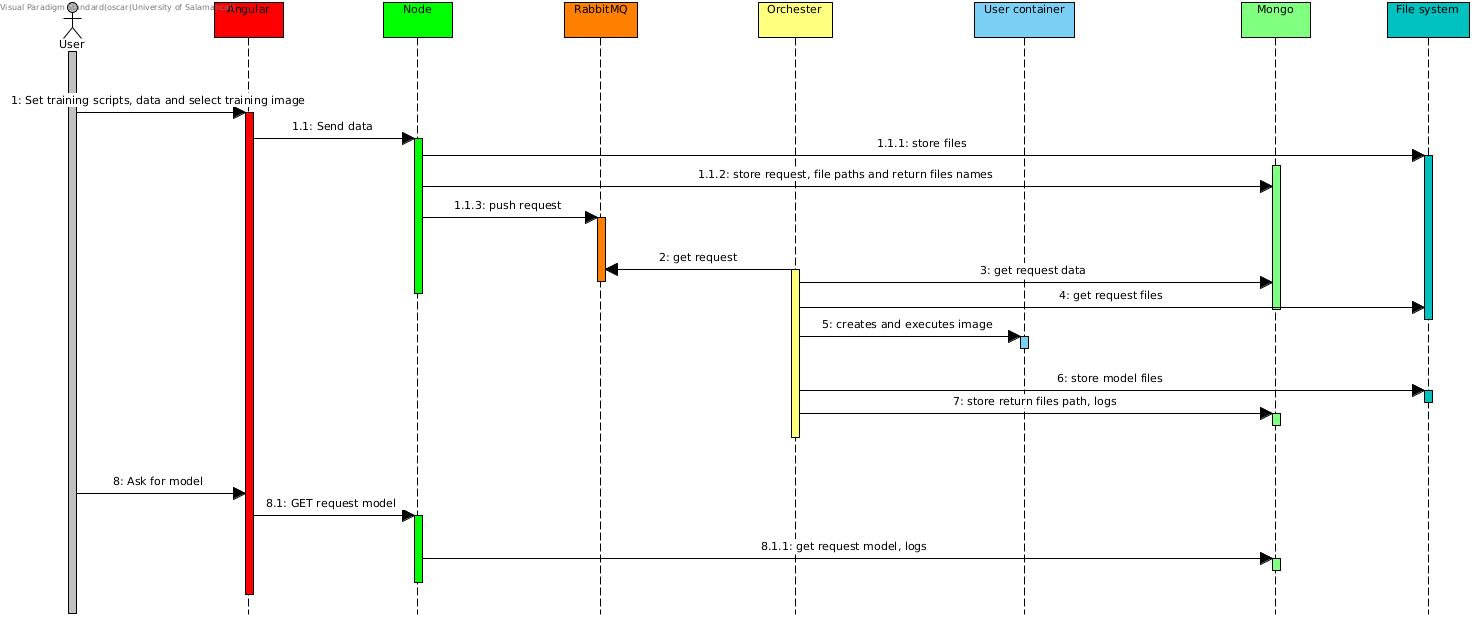
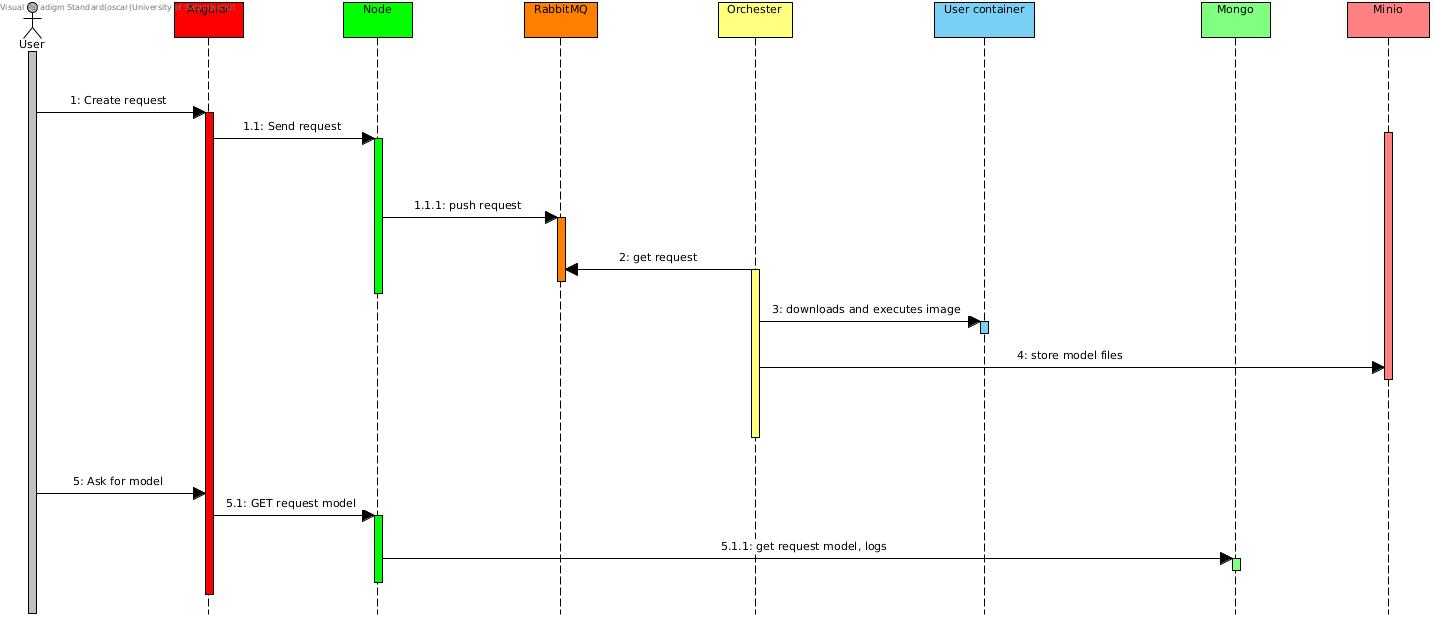
Updated diagrams, orchestrator

diff --git a/src/orchestrator/orchestrator.py b/src/orchestrator/orchestrator.py
@@ -1,4 +1,5 @@
 #!/usr/bin/env python
+from asyncio import constants
 import json
 from sys import stderr, stdout
 import time
@@ -51,31 +52,42 @@ def callback(ch, method, properties, body):
     #Get start time
     start_time = time.time()
 
-    #Enter in a loop until max time is reached or container has finished
+    #Enter in a loop until max time is reached or container has exited
     while True:
-        #Get and print container output for debug, we can store this in a log
         container.reload()
-        out = container.logs(stdout=True, stderr=False)
-        print(out.decode(), flush=True)
+        #Optional: upload logs in a periodic time so that users can check them in almost real time
+        #out = container.logs(stdout=True, stderr=False)
+        #print(out.decode(), flush=True)
         current_time = time.time()
         elapsed_time = current_time - start_time
         if elapsed_time > float(request.executionTime):
-            #If max time reached stop exit from loop
+            #If max time reached exit from loop
             print("Max execution time reached")
             break
         elif container.status == "exited":
             print("Container exited")
             break
-        #Seep 10 seconds to prevent high cpu usage
+        #Sleep 10 seconds to prevent high cpu usage
         #print("Status: " + container.status, flush=True)
         time.sleep(10)
 
 
     container.stop()
     #Check exit code, logs, etc
+    out = container.logs(stdout=True, stderr=False)
+    err = container.logs(stdout=False, stderr=True)
+    print("\n\n===========CONTAINER LOGS=============\n\n", flush=True)
+    print(out.decode(), flush=True)
+    print(err.decode(), flush=True)
 
+
+    #Get results, upload files, upload logs
+    #Send container finished to web app
+
+    #Remove container, remove image
 
     ch.basic_ack(delivery_tag=method.delivery_tag)
+
 
 
 channel.basic_qos(prefetch_count=1)
